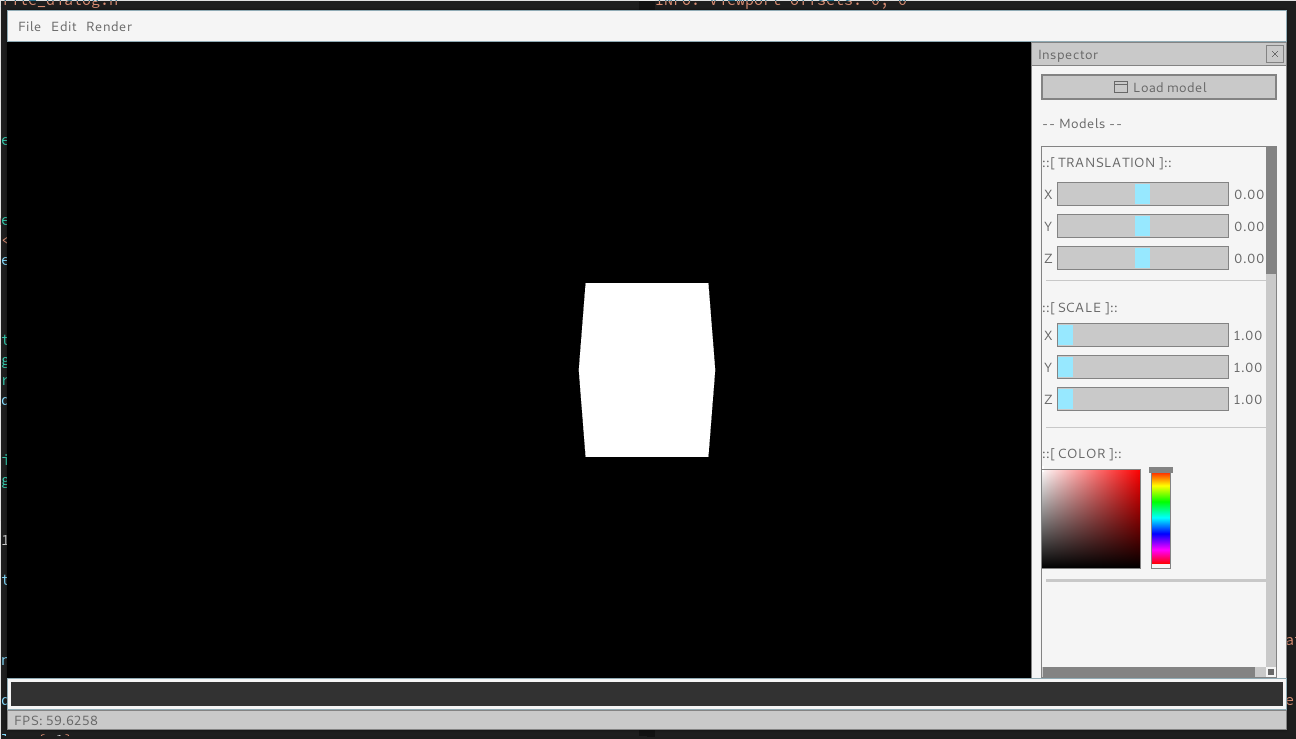
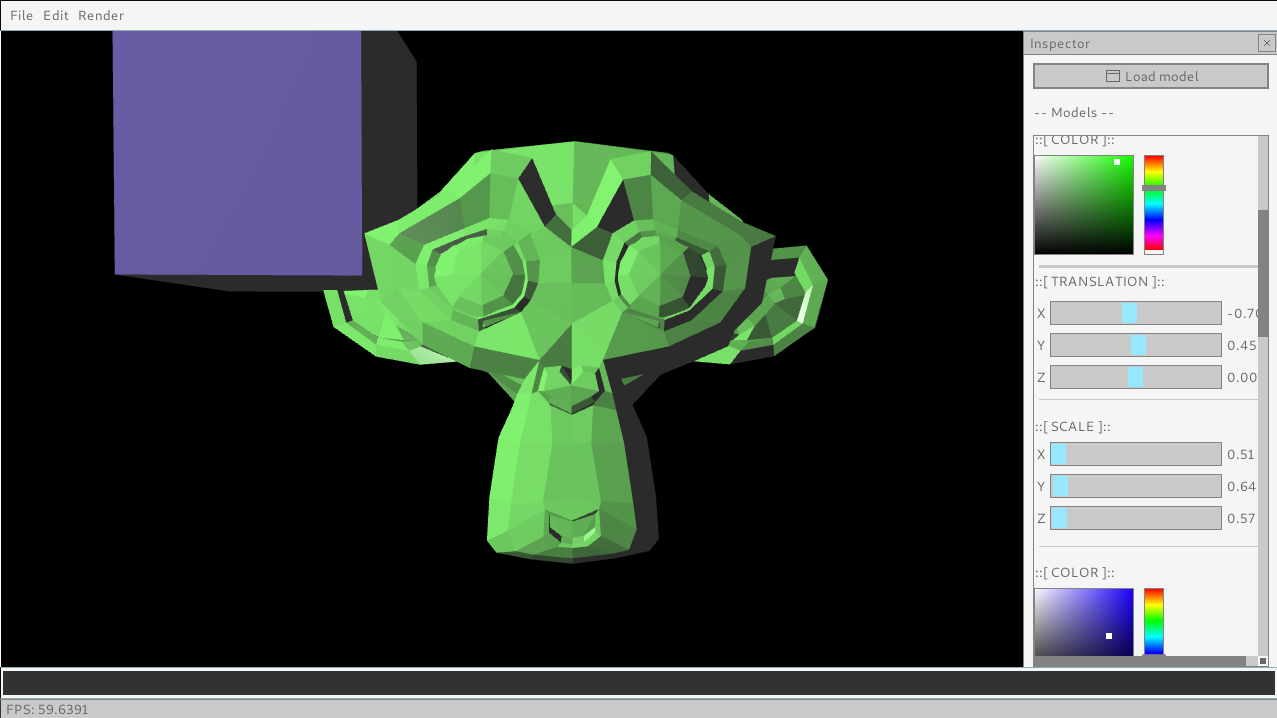
Updated the screenshot

diff --git a/main.cpp b/main.cpp
@@ -363,7 +363,7 @@ int main () {
     GuiSetFont(state.font);
 
     state.models.push_back(
-        {load_model(state, "models/cube.obj"), {std::string{"cube"}}});
+        {load_model(state, "models/monkey.obj"), {std::string{"monkey"}}});
 
     while (!WindowShouldClose() && state.running) {
 
@@ -374,7 +374,7 @@ int main () {
 
         timer += GetFrameTime();
 
-        auto pos = (Vector3){10, 5, -10};
+        auto pos = (Vector3){-10, 5, 10};
         for (int i = 0; i < MAX_LIGHTS; i++) {
             lights[i].position = pos;
             UpdateLightValues(state.shader, lights[i]);
